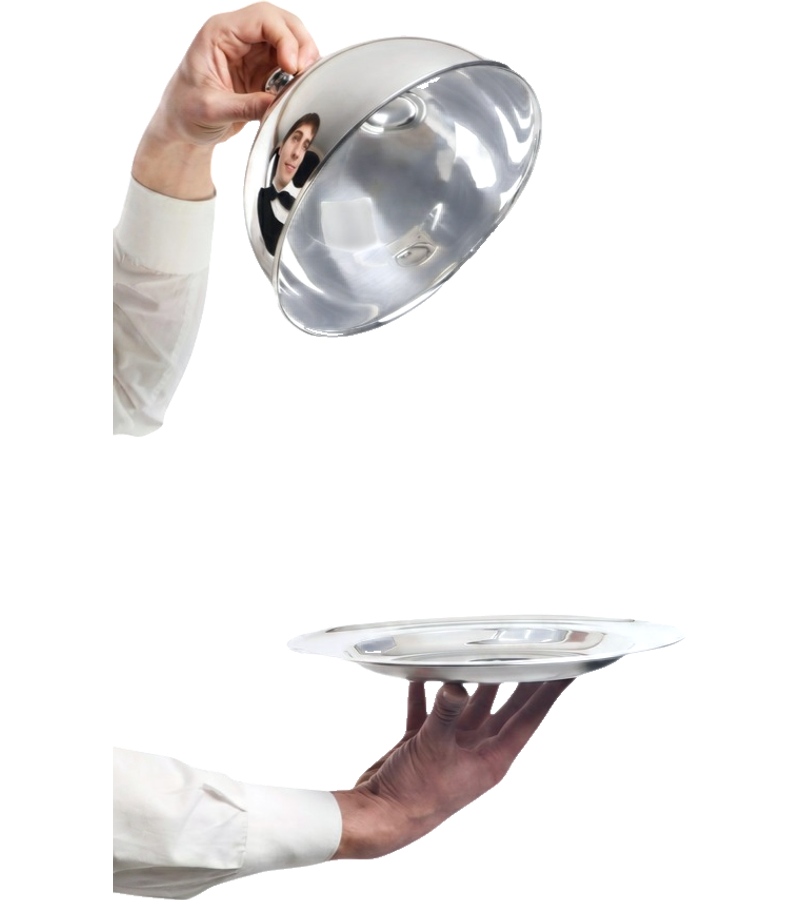
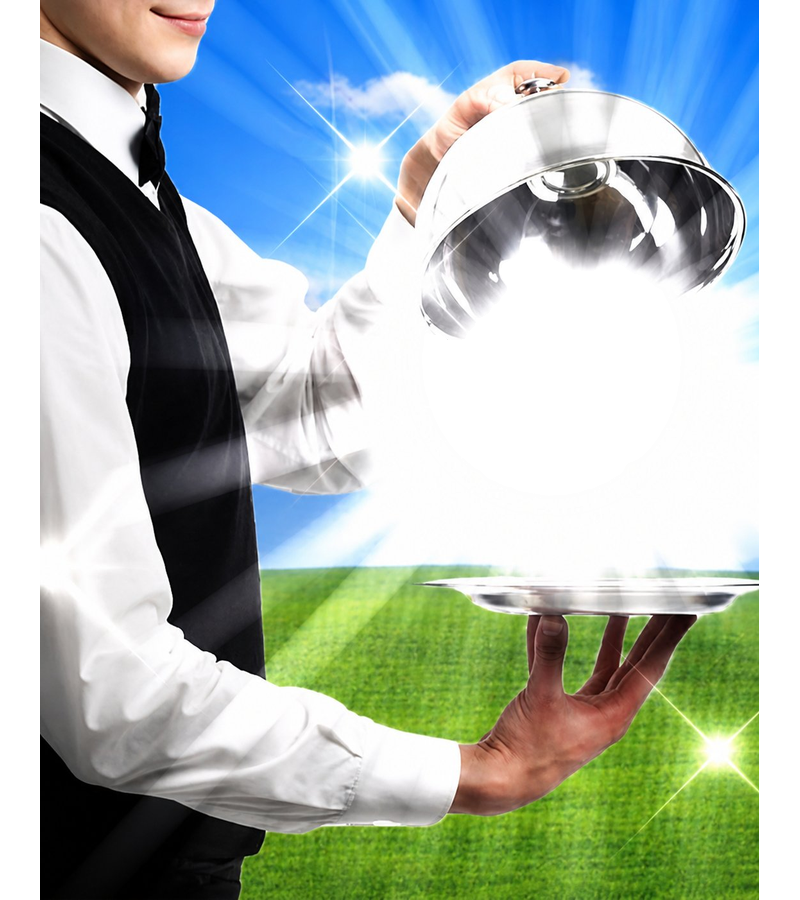
fix(challenge): 화이트 디폴트 + 셀7 텍스트 세로 중앙 + 웨이터 접시 가운데 정렬 시도
- BACKGROUND_COLORS[0]: 크림(#fff5e6) → 화이트(#ffffff)
  (사용자가 살구색→흰색 요청, 라벨도 "화이트")
- paintTitleCell: HEADLINE_KR/EN을 셀 세로 중앙(cy)에 배치
  (이전엔 y+180으로 상단 쏠림)
- waiter raw 재처리: 하단부(plate area)의 가로 bbox 중심을 캔버스 중심에
  맞춤. sleeve가 좌측 끝까지 뻗어 자동 정렬은 +1px 정도 — 접시가 사실상
  이미 가운데 근방이라 추가 trim 없이 raw 정합

diff --git a/lib/sheet-composer.ts b/lib/sheet-composer.ts
@@ -241,18 +241,19 @@ function paintTitleCell(
   ctx.textBaseline = "middle";
   ctx.textAlign = "center";
 
-  // Korean headline — outlined navy + white halo (auto-inverted on dark
-  // bg). Sits in the upper portion of cell 7.
+  // Korean headline — vertically centered in the cell, outlined navy +
+  // white halo (auto-inverted on dark bg).
+  const cy = y + h / 2;
   ctx.font = `50px ${pixelFamily}`;
-  drawOutlinedText(ctx, HEADLINE_KR, cx, y + 180, {
+  drawOutlinedText(ctx, HEADLINE_KR, cx, cy - 20, {
     fill,
     stroke,
     strokeWidth: 9,
   });
 
-  // English subline directly below.
+  // English subline directly below the KR headline.
   ctx.font = `20px ${pixelFamily}`;
-  drawOutlinedText(ctx, HEADLINE_EN, cx, y + 225, {
+  drawOutlinedText(ctx, HEADLINE_EN, cx, cy + 25, {
     fill,
     stroke,
     strokeWidth: 5,

diff --git a/lib/background-assets.ts b/lib/background-assets.ts
@@ -68,7 +68,7 @@ export const BACKGROUND_PATTERNS: ReadonlyArray<BackgroundPattern> = [
 export const BACKGROUND_PATTERNS_PAGE_SIZE = 6;
 
 export const BACKGROUND_COLORS: ReadonlyArray<BackgroundColor> = [
-  { id: "cream", hex: "#fff5e6", label: "크림" },
+  { id: "white", hex: "#ffffff", label: "화이트" },
   { id: "blush", hex: "#ffd8e6", label: "블러시" },
   { id: "butter", hex: "#fff36b", label: "버터" },
   { id: "mint", hex: "#d4f5e8", label: "민트" },